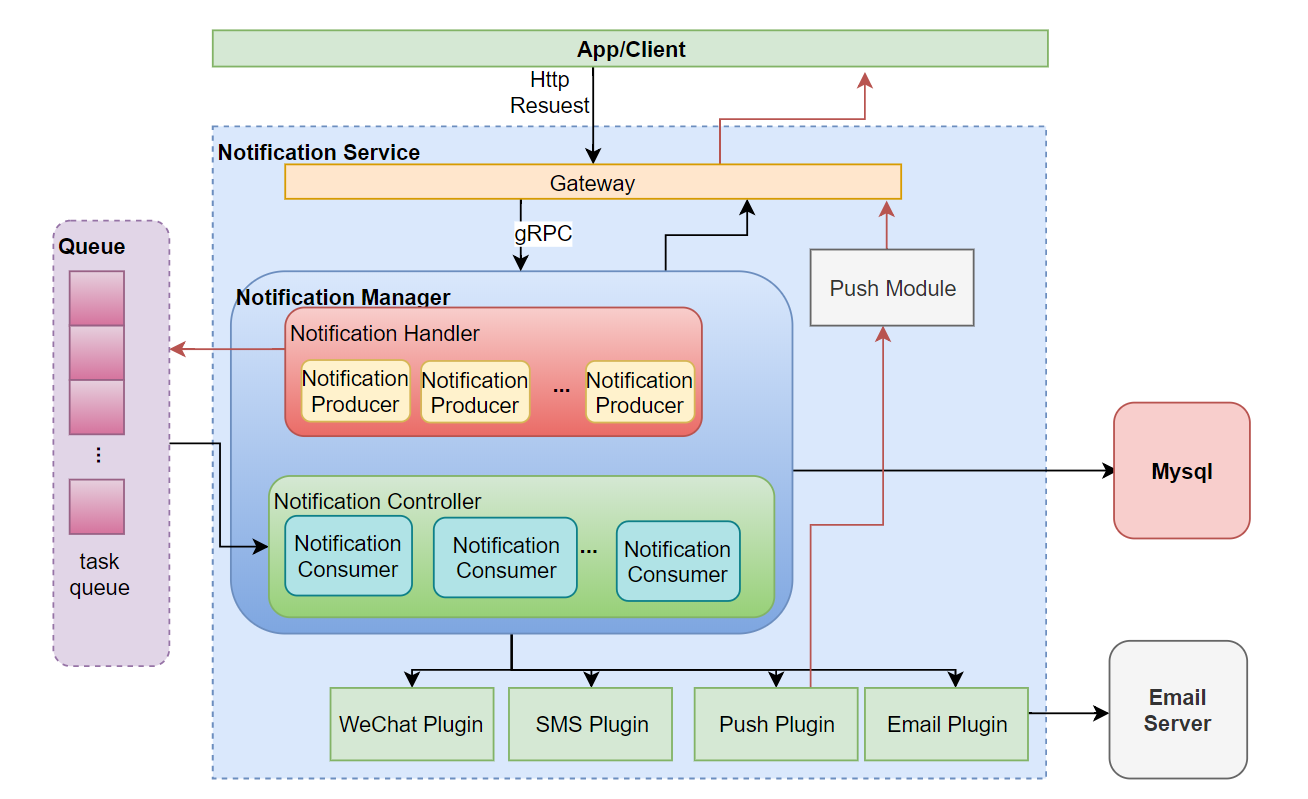
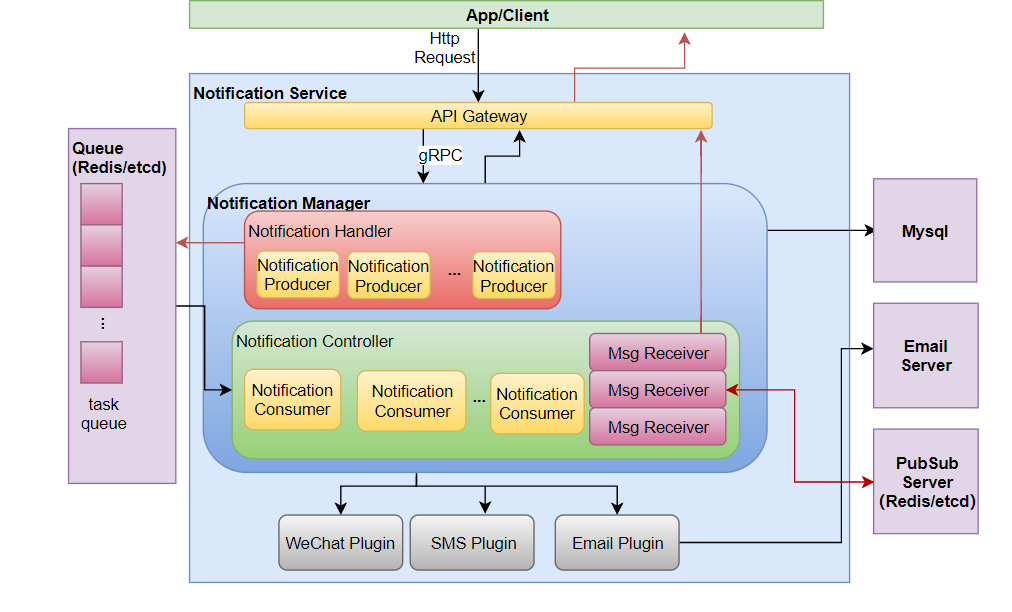
add document

diff --git a/doc/installation/allinone.md b/doc/installation/allinone.md
@@ -1,0 +1,90 @@
+---
+title: "All-in-One 模式"
+---
+
+All-in-One 模式部署由 [Docker-Compose](https://github.com/docker/compose) 的方式启动运行项目，Compose 能够定义和运行多个 Docker 容器的应用，允许用户通过一个单独的 docker-compose.yml 模板文件（YAML 格式）来定义一组相关联的应用容器为一个项目（project），通过子命令可对项目中的一组容器进行便捷地生命周期管理。
+
+## 第一步: 准备环境
+
+### 主机环境
+
+需要准备一台满足最小资源要求的主机节点开始 `all-in-one` 模式的部署。
+
+|   CPU  |  Memory |  磁盘  |
+|--------|---------|-------|
+|  1 核  |    1 G  |  10 G |
+
+### 软件环境
+
+`All-in-One` 模式需要依赖以下软件，请预先在主机中安装符合以下版本要求的软件:
+
+| 软件需求 | 最低版本 |
+| --- | --- |
+| [Docker](https://docs.docker.com/install/) | 18.03.0-ce |
+| [Docker-Compose](https://docs.docker.com/compose/install/) | 1.21.0 |
+| [Make](https://www.gnu.org/software/make/) | 3.81 |
+
+> 说明：若主机已安装 Kubernetes 环境，可能会造成 docker 容器之间网络不通。
+
+## 第二步: 准备 Notification 源文件压缩包
+
+1. 可通过 wget 命令从 GitHub 指定的 URL 下载 [Notification](https://github.com/openpitrix/notification/releases/tag/v0.2.1) 的源文件压缩包。
+
+```bash
+$ wget https://github.com/openpitrix/notification/archive/v0.2.1.tar.gz
+```
+2. 解压压缩包：
+
+```bash
+$ tar -zxf notification-0.2.1.tar.gz
+```
+
+## 第三步: 部署 Notification
+
+进入 解压后的 Notification 目录，编译项目。该过程需要拉取多个 Notification 相关的 docker 镜像，拉取镜像和安装速度与网络也有关系，需要等待几分钟。
+
+```bash
+$ cd notification-0.2.1/
+$ make build
+$ make compose-up
+```
+
+## 第四步: 验证
+
+1. 查看所有容器的运行状况，正常情况下所有容器状态应该如下所示，确保 Notification 相关的镜像都已经成功创建：
+
+```bash
+$ docker-compose ps
+              Name                             Command               State                        Ports                     
+----------------------------------------------------------------------------------------------------------------------------
+notification-db                     docker-entrypoint.sh --low ...   Up       0.0.0.0:13306->3306/tcp                       
+notification-etcd                   etcd --data-dir /data --li ...   Up       0.0.0.0:12379->2379/tcp, 2380/tcp             
+notification-manager                notification                     Up       0.0.0.0:9200->9200/tcp, 0.0.0.0:9201->9201/tcp
+notification-notification-db-ctrl   flyway -url=jdbc:mysql://n ...   Exit 1                                                 
+notification-redis                  docker-entrypoint.sh redis ...   Up       0.0.0.0:6379->6379/tcp  
+```
+
+2. 您可以通过浏览器，使用运行该服务的服务器的 IP 地址和 SwaggerUI 端口号即 `<NodeIP>:9200` 可以内部网络访问 SwaggerUI 页面，如 `http://192.168.0.4:9200/swagger-ui/#/notification`。
+
+若需要在外网访问，在云平台需要在端口转发规则中将上述的**内网端口** 9200 转发到**源端口** 9200，然后在防火墙开放这个**源端口**，确保外网流量可以通过该端口。
+
+> 提示：例如在 QingCloud 平台配置端口转发和防火墙规则，则可以参考 [云平台配置端口转发和防火墙](https://openpitrix.io/docs/v0.4/zh-CN/appendix/qingcloud-manipulation)。
+
+然后可以通过 `<EIP>:9200` 的方式访问控制台，如：`http://139.198.111.111:9200`，即可进入 Notification Swagger 页面。
+
+![swaggerUI](../images/swaggerUI.png) 
+
+3. 查看 API Gateway 服务
+
+Notification 部署成功后，可以在 SwaggerUI 界面下体验一下各个 API 的使用，了解各个 API 的参数设置和具体使用。
+
+Notification API 文档请参考 SwaggerUI 上详细的描述。 
+
+
+## 清理环境
+
+若需要卸载 Notification 清理环境，在项目文件目录下，执行以下命令，停止并删除 Notification 所有服务，请谨慎操作。
+
+```bash
+$ docker compose-down 
+```

diff --git a/README.md b/README.md
@@ -4,8 +4,45 @@
 ----
 
 ## Introduction
-Notification is an enterprise-grade general-purpose high-performance notification system. 
+Notification is an enterprise-grade general-purpose high-performance distribute notification system. 
 
-## Architecture
+The basic requirements for this system is below:
+
+1.General Purpose
+
+2.Different notification ways
+
+3.Distribute, Asynchronous sending 
+
+4.Notification Address management
+
+It is plugin-driven and designed to support following notification ways:
+
+1.Email
+
+2.Websocket(WIP)
+
+3.Wechat(todo)
+
+4.SMS(todo)
+
+In the future it will provide more functions to support different notification ways.
+
+## Installation:
+You can find the details in the [installation documents](doc/installation/allinone.md).
+ 
+ 
+ 
+## Architecture Design
 
 ![Architecture](doc/images/notification.png)
+
+Notes:
+
+1.Notification provides gRPC and RESTful api for third party call.
+
+2.The Persistence Layer is Mysql.
+
+3.Asynchronous sending Notification, need use MQ to temporarily store notification, using Redis or etcd queue.
+
+ 
